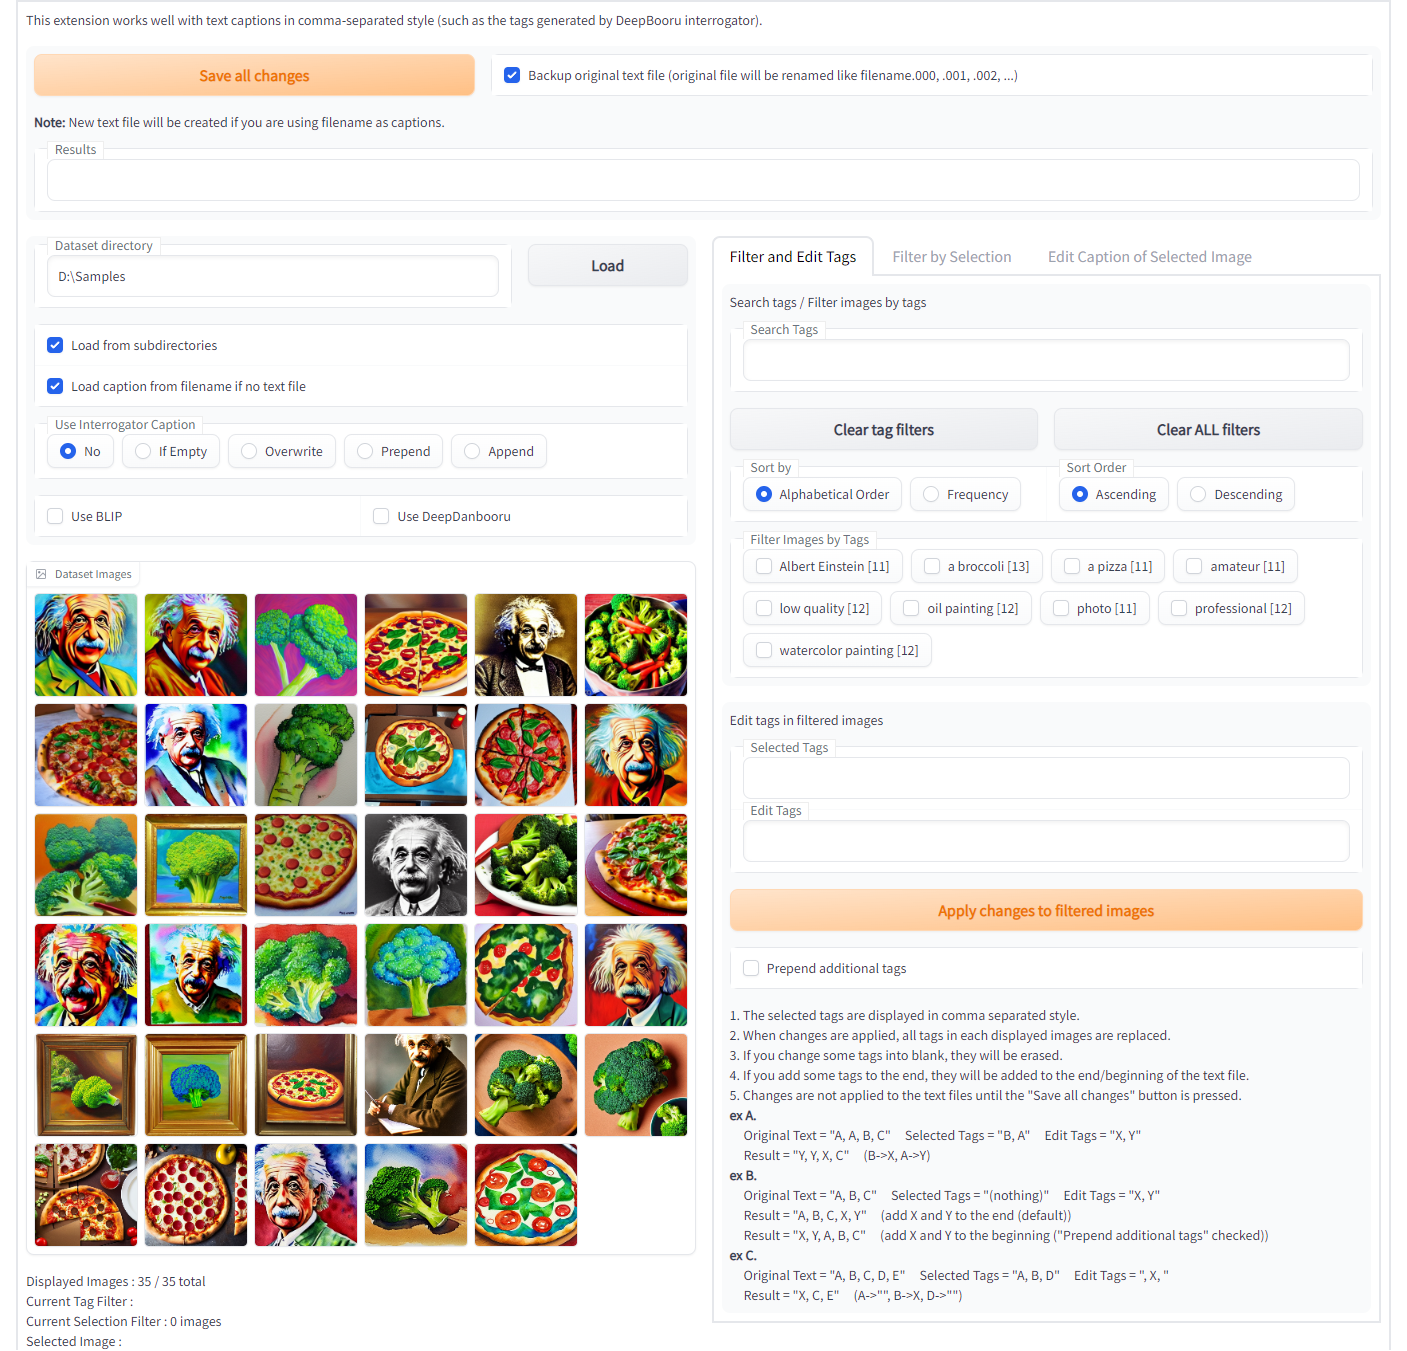
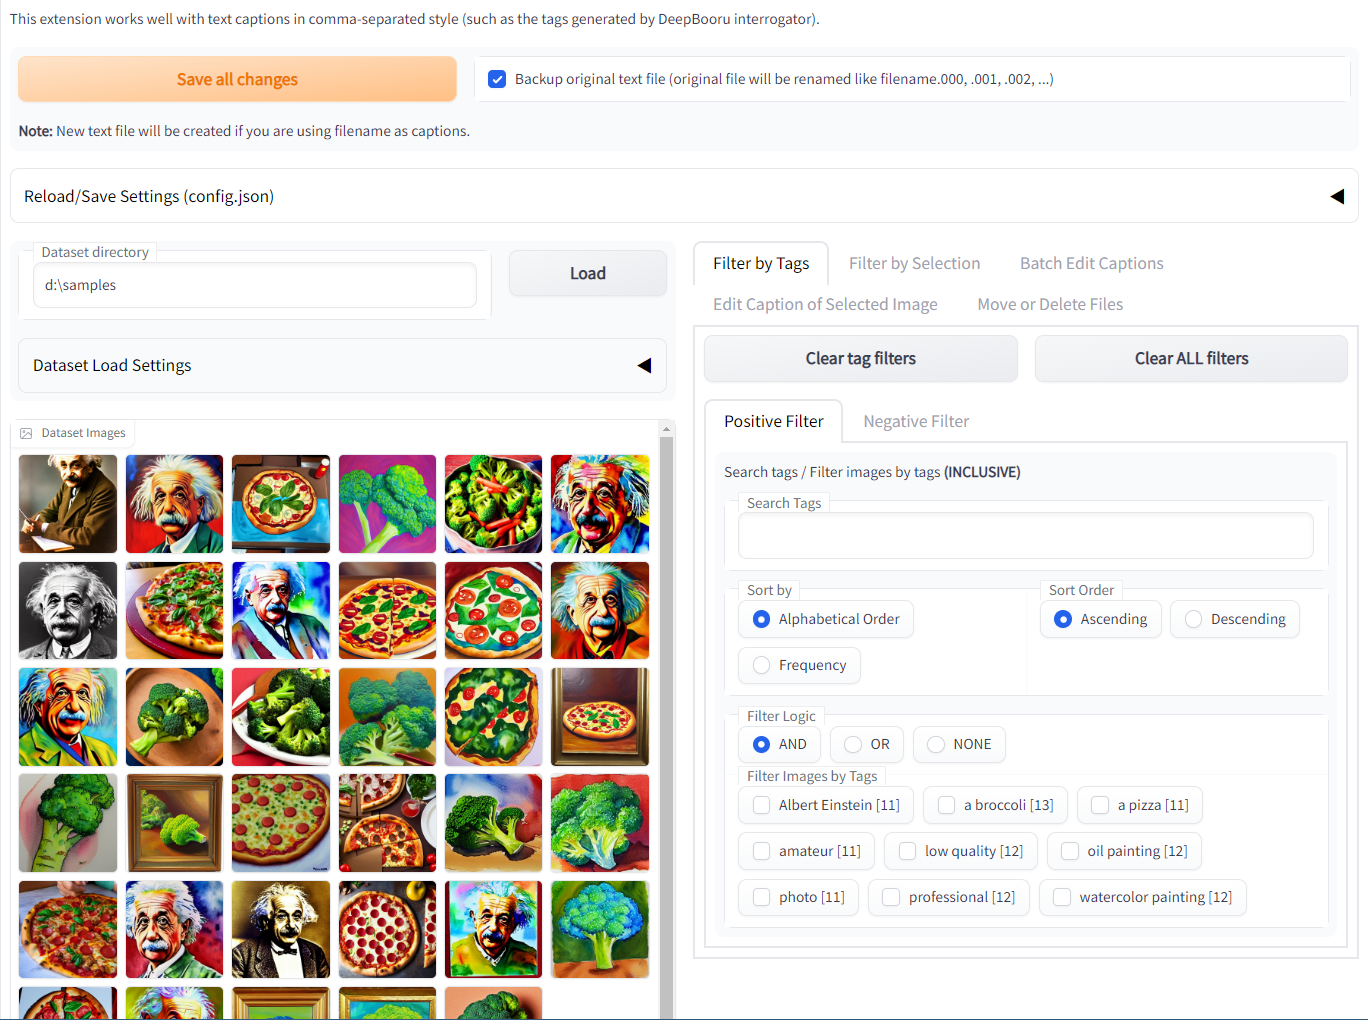
Update README.md

diff --git a/README.md b/README.md
@@ -30,75 +30,77 @@ git clone https://github.com/toshiaki1729/stable-diffusion-webui-dataset-tag-edi
 Note. "tag" means each blocks of caption separated by commas.
 - Edit captions while viewing related images
 - Search tags
-- Filter images by tags and edit those captions
+- Filter images to edit their caption by tags
+  - AND/OR logic can be used in each Positive/Negative filters
 - Batch replace/remove/append tags
+- Batch search and replace
+  - [regular expression](https://docs.python.org/3/library/re.html) can be used
 - Use interrogators
+  - BLIP, DeepDanbooru, [WDv1.4 Tagger](https://huggingface.co/SmilingWolf/wd-v1-4-vit-tagger)
+- Batch remove image and/or caption files
 
 
 ## Usage
 1. Make dataset using web UI
+    - better to use already cropped images
 1. Load them
     - use interrogator if needed
 1. Edit their captions
-    - filter images you want to edit by tags in "Filter and Edit Tags" tab
-      - search tags and filter images by tags
-      - replace / remove them or append new tags to their captions
+    - filter images you want to edit by tags in "Filter by Tags" tab
     - filter images manually in "Filter by Selection" tab
+    - replace/remove tags or append new tags in "Batch Edit Captions" tab
     - edit captions individually in "Edit Caption of Selected Image" tab
       - you also can use interrogator here
+    - move/delete files in "Move or Delete Files" tab if needed
 1. Click "Save all changes" button
 
 
 ## Description of Display
 
 ### Common
+![](pic/ss02.png)
 - "Save all changes" buttton
   - save captions to text file
     - changes will not be applied to the text files until you press this button
   - if "Backup original text file" is checked, original text files will be renamed not to be overwritten
     - backup file name will be like filename.000, -.001, -.002, ...
-  - new text file will be created if not exists
-- "Results" text box
-  - shows save results
+  - new caption text file will be created if it does not exist
+- "Reload/Save Settings" Accordion (closed initially)
+  - you can reload/save/restore all settings in the UI here
+  - settings will be saved in `.../tag-editor-root-dir/config.json`
 - "Dataset Directory" text box
   - input the directory of training images and load them by clicking "Load" button
   - loading options are below
   - you can make caption on loading by using interrogator if needed
 - "Dataset Images" gallery
   - to view and select images
-  - the number of colums can be changed in "Settings" tab
+  - the number of colums can be changed in web UI's "Settings" tab
 
 ***
 
 ### "Filter and Edit Tags" tab
-![](ss02.png)
+![](pic/ss03.png)
+#### Common
+- "Clear tag filters" button
+  - clear tag search text and tag selection
+- "Clear ALL filters" button
+  - clear all filters including image selection filter in the next tab
 
+Positive (inclusive) / Negative (exclusive) filters can be used by toglling tabs.
+
+#### Search tags / Filter images by tags
 - "Search Tags" text box
   - search and filter the tags displayed below
-- "Clear tag filters" button
-  - clear tag search and filter by tags
-- "Clear ALL filters" button
-  - clear all filters including selection filter in next tab
 - "Sort by / Sort order" radio buttons
   - change sort order of the tags displayed below
 - "Filter Images by Tags" checkboxes
   - filter images displayed in the left gallery by tags
     - also filter tags depending on captions of the displayed images
-- "Selected Tags" text box (not editable)
-  - shows the selected tags in comma separated style
-- "Edit Tags" text box
-  - you can edit the selected tags for all captions of the displayed images
-    - each tags will be replaced by the tags in "same place"
-    - erase tags by changing it into blank
-    - you can append some tags to captions by add new tags at the end
-      - the tags will be added to the beggining/end of text files depending on the checkbox below
-- "Apply changes to filtered images" button
-  - apply the tag changes only to displayed images
 
 ***
 
 ### "Filter by Selection" tab
-![](ss03.png)
+![](pic/ss04.png)
 
 - "Add selection" button
   - to include selected dataset image in selection
@@ -116,8 +118,39 @@ Note. "tag" means each blocks of caption separated by commas.
 
 ***
 
+### "Batch Edit Captions" tab
+![](pic/ss05.png)
+#### "Search and Replace" tab
+
+- "Edit common tags" is a simple way to edit tags.
+  - "Common Tags" text box (not editable)
+    - shows the common tags among the displayed images in comma separated style
+  - "Edit Tags" text box
+    - you can edit the selected tags for all captions of the displayed images
+      - each tags will be replaced by the tags in "same place"
+      - erase tags by changing it into blank
+      - you can add some tags to the captions by appending new tags
+        - the tags will be added to the beggining/end of text files depending on the checkbox below
+  - "Apply changes to filtered images" button
+    - apply the tag changes only to displayed images
+
+- "Search and Replace" is a little complicated but powerful way to edit tags.
+  - Regular expression can be used here.
+  - "Search Text" text box
+    - text to be replaced
+  - "Replace Text" text box
+    - text to replace "Search Text"
+  - "Search and Replace in" radio buttons 
+    - to select the replacing method
+      - "Only Selected Tags" : limit the range only to selected tags, and do replace sepalately in each tags
+      - "Each Tags" : do replace sepalately in each tags
+      - "Entire Caption" : do replace in entire caption at once
+  - "Search and Replace" button to apply
+
+***
+
 ### "Edit Caption of Selected Image" tab
-![](ss04.png) ![](ss05.png)
+![](pic/ss06.png)
 
 #### "Read Caption from Selected Image" tab
 - "Caption of Selected Image" textbox
@@ -134,3 +167,15 @@ Note. "tag" means each blocks of caption separated by commas.
   - edit caption here
 - "Apply changes to selected image" button
   - change the caption of selected image into the text in "Edit Tags" textbox
+
+***
+
+  ### "Move or Delete Files" tab
+![](pic/ss07.png)
+- "Move or Delete" radio buttons to select target image
+- "Target" checkboxes to select which files to be moved or deleted
+- "Move File(s)" button
+  - move files to "Destination Directory"
+- "DELETE File(s)" button
+  - delete files
+  - Note: This won't move the files into $Recycle.Bin, just do DELETE them completely.
